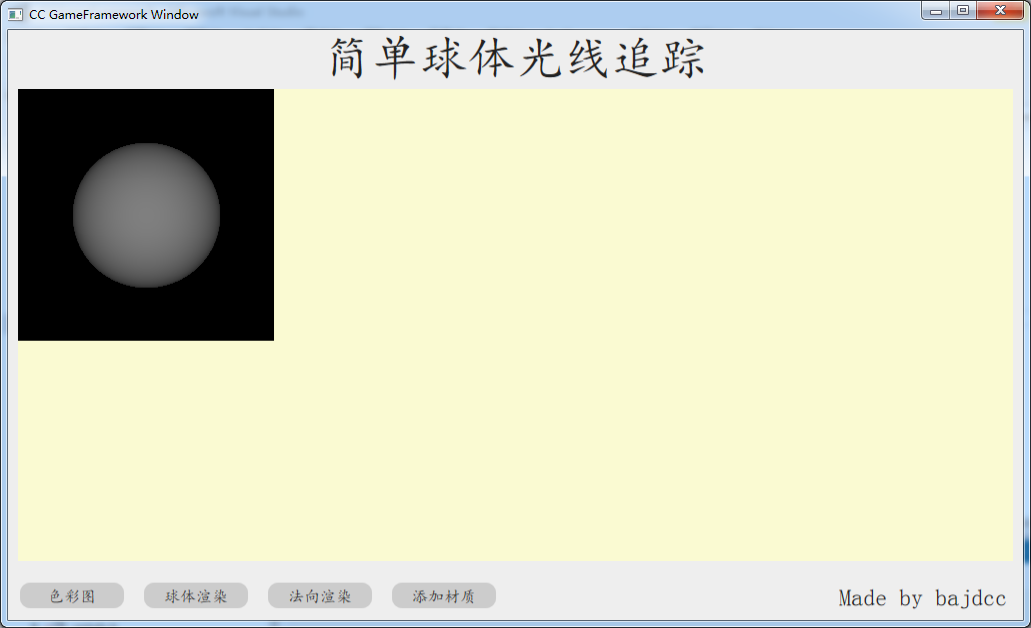
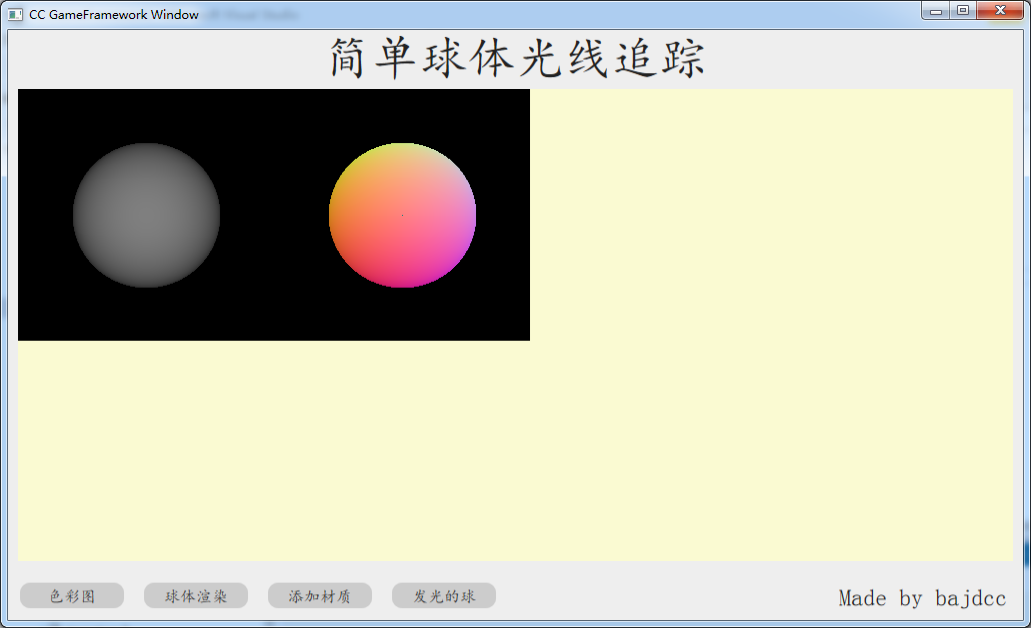
ADD: Add normal image

diff --git a/CCGameFramework/base/pe2d/PhysicsEngine2D.cpp b/CCGameFramework/base/pe2d/PhysicsEngine2D.cpp
@@ -149,6 +149,12 @@ void PhysicsEngine::RenderSimpleSphere(CComPtr<ID2D1RenderTarget> rt, CRect boun
             1.0f,
             D2D1_BITMAP_INTERPOLATION_MODE_LINEAR
         );
+        rt->DrawBitmap(
+            bitmap2,
+            D2D1::RectF((FLOAT)bounds.left + 256, (FLOAT)bounds.top, (FLOAT)bounds.left + 512, (FLOAT)bounds.top + 256),
+            1.0f,
+            D2D1_BITMAP_INTERPOLATION_MODE_LINEAR
+        );
         return;
     }
     auto _rt = d2drt.lock();
@@ -160,22 +166,34 @@ void PhysicsEngine::RenderSimpleSphere(CComPtr<ID2D1RenderTarget> rt, CRect boun
     rect.Width = _w;
     rect.Height = _h;
     auto buffer = new BYTE[rect.Width * rect.Height * 4];
+    auto buffer2 = new BYTE[rect.Width * rect.Height * 4];
     auto hr = wic->CopyPixels(&rect, rect.Width * 4, rect.Width * rect.Height * 4, buffer);
 
     // ----------------------------------------------------
     // 位图渲染开始
-    RenderSphereIntern(buffer, _w, _h);
+    RenderSphereIntern(buffer, buffer2, _w, _h);
     // ----------------------------------------------------
 
     auto d2dRect = D2D1::RectU(0, 0, rect.Width, rect.Height);
     bitmap = _rt->GetBitmapFromWIC(wic);
     bitmap->CopyFromMemory(&d2dRect, buffer, rect.Width * 4);
-    delete[]buffer;
     rt->DrawBitmap(
         bitmap,
         D2D1::RectF((FLOAT)bounds.left, (FLOAT)bounds.top, (FLOAT)bounds.left + 256, (FLOAT)bounds.top + 256),
         1.0f,
         D2D1_BITMAP_INTERPOLATION_MODE_LINEAR // 线性即可
     );
+
+    bitmap2 = _rt->GetBitmapFromWIC(wic);
+    bitmap2->CopyFromMemory(&d2dRect, buffer2, rect.Width * 4);
+    rt->DrawBitmap(
+        bitmap2,
+        D2D1::RectF((FLOAT)bounds.left + 256, (FLOAT)bounds.top, (FLOAT)bounds.left + 512, (FLOAT)bounds.top + 256),
+        1.0f,
+        D2D1_BITMAP_INTERPOLATION_MODE_LINEAR // 线性即可
+    );
+
+    delete[]buffer;
+    delete[]buffer2;
     painted = true;
 }

diff --git a/CCGameFramework/base/pe2d/RenderSphere.cpp b/CCGameFramework/base/pe2d/RenderSphere.cpp
@@ -128,7 +128,7 @@ public:
     }
 };
 
-void PhysicsEngine::RenderSphereIntern(BYTE * buffer, cint width, cint height)
+void PhysicsEngine::RenderSphereIntern(BYTE * buffer, BYTE * buffer2, cint width, cint height)
 {
     // 注意：RELEASE下速度更快，DEBUG比较慢
 
@@ -174,6 +174,10 @@ void PhysicsEngine::RenderSphereIntern(BYTE * buffer, cint width, cint height)
                 buffer[1] = (BYTE)depth;
                 buffer[2] = (BYTE)depth;
                 buffer[3] = 255;
+                buffer2[0] = (BYTE)((result.normal.x + 1) * 128); // 法向[-1,1]映射至[0,255]
+                buffer2[1] = (BYTE)((result.normal.y + 1) * 128);
+                buffer2[2] = (BYTE)((result.normal.z + 1) * 128);
+                buffer2[3] = 255;
             }
             else
             {
@@ -182,9 +186,14 @@ void PhysicsEngine::RenderSphereIntern(BYTE * buffer, cint width, cint height)
                 buffer[1] = 0;
                 buffer[2] = 0;
                 buffer[3] = 255;
+                buffer2[0] = 0;
+                buffer2[1] = 0;
+                buffer2[2] = 0;
+                buffer2[3] = 255;
             }
 
             buffer += 4;
+            buffer2 += 4;
         }
     }
 }

diff --git a/CCGameFramework/base/pe2d/PhysicsEngine2D.h b/CCGameFramework/base/pe2d/PhysicsEngine2D.h
@@ -22,7 +22,7 @@ private:
     void RenderSimpleSphere(CComPtr<ID2D1RenderTarget> rt, CRect bounds);
 
 private:
-    void RenderSphereIntern(BYTE* buffer, cint width, cint height);
+    void RenderSphereIntern(BYTE* buffer, BYTE* buffer2, cint width, cint height);;
 
 private:
     CComPtr<ID2D1SolidColorBrush> bg;
@@ -31,6 +31,7 @@ private:
     std::weak_ptr<Direct2DRenderTarget> d2drt;
     bool painted{ false };
     CComPtr<ID2D1Bitmap> bitmap;
+    CComPtr<ID2D1Bitmap> bitmap2;
 };
 
 #endif
